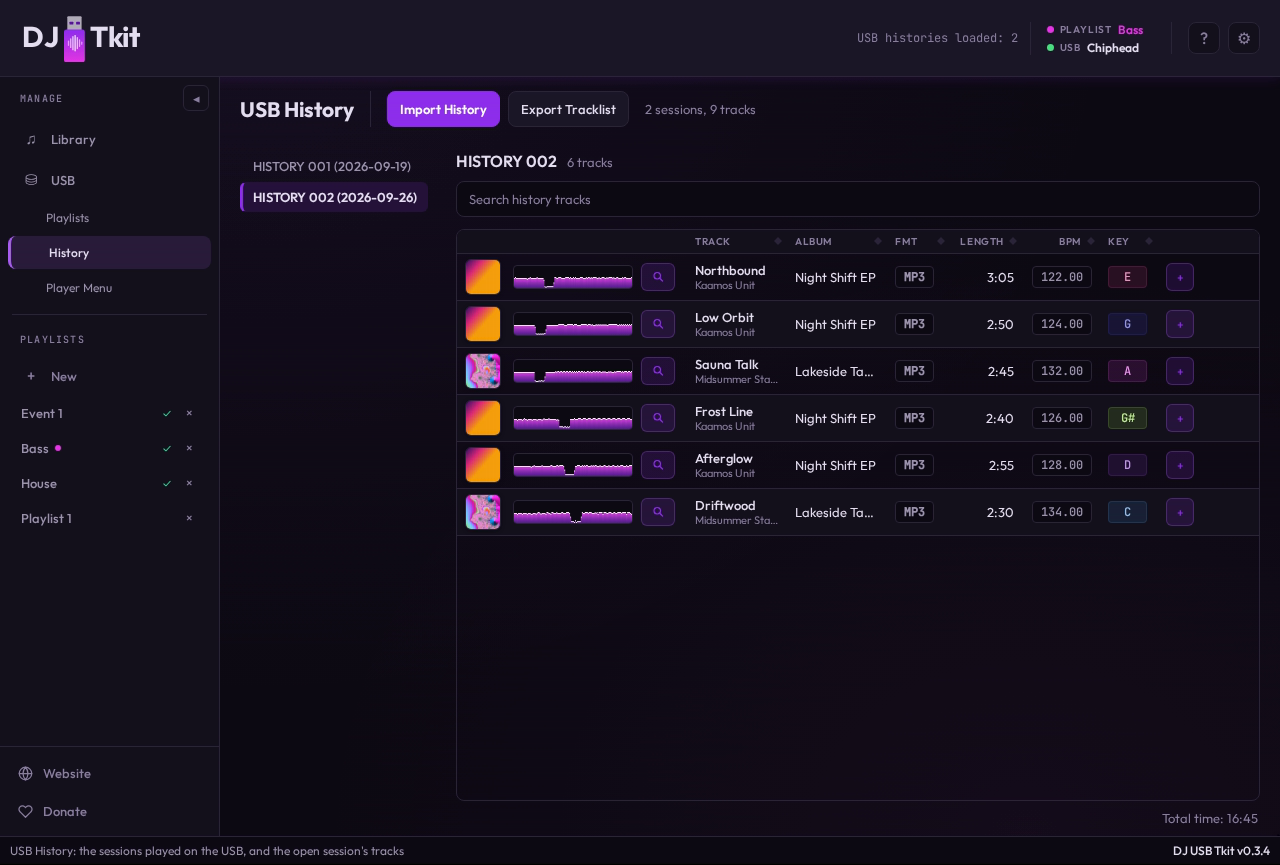
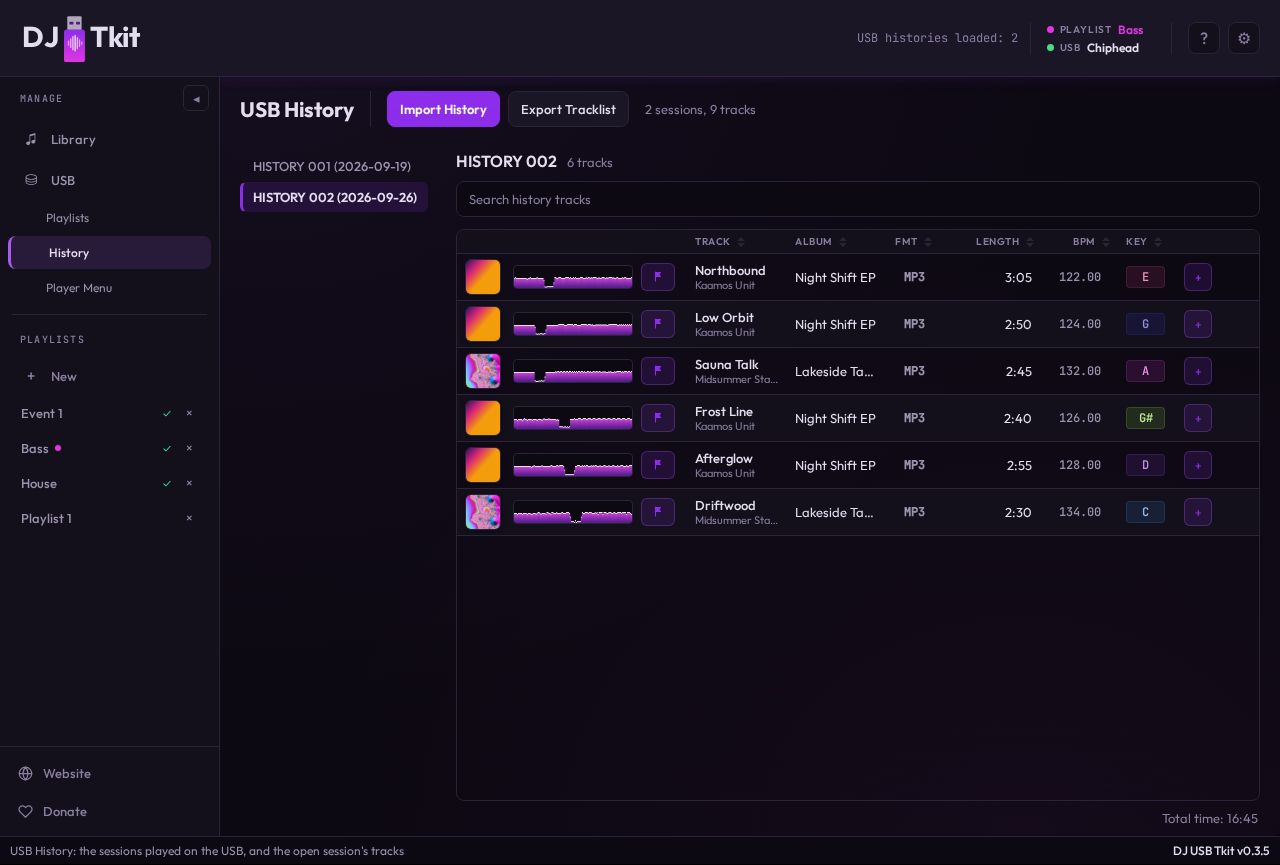
v0.3.5

Changed region(s): [[0.7812, 0.2497, 0.9688, 0.6243], [0.75, 0.2497, 0.7812, 0.2809]]

diff --git a/CHANGELOG.md b/CHANGELOG.md
@@ -39,26 +39,28 @@
 
 ## Unreleased
 
+## 0.3.5
+
 - **New feature:** on Linux, a rekordbox library running under Wine is
   found and can be imported. The app looks in `$WINEPREFIX`, `~/.wine`, and
   Bottles bottles, and maps rekordbox's `C:` / `Z:` track paths to where the
   files are on Linux. The Windows build doesn't work under Wine, so use the
   Linux build for this.
+- **Fix:** AIFF files with padding before the audio can be analyzed and
+  played. They used to fail with "No support for AIFF block-aligned data".
 - **Fix:** a track row now pulses as analyzing for the whole time the
-  track is being analyzed. Before, it only lit up sometimes or a moment 
+  track is being analyzed. Before, it only lit up sometimes or a moment
   at the very end, so during a large analysis some rows never showed it.
+- **Fix:** the cue editor button is disabled for a track that has no
+  waveform, even if it has a BPM and key. Its tooltip says to analyze the
+  track first.
+- **Fix:** in the light theme, the track list's keys are readable. Their
+  text was a pale colour meant for the dark theme.
 - **Fix:** the beat grid in the cue editor looks even. Lines used to be
   drawn between screen pixels, so some looked thicker or fainter than
   others and their spacing seemed to wobble.
 - **Fix:** where a list's two scrollbars meet, the corner is dark now
   instead of a white square.
-- **Fix:** in the light theme, the track list's keys are readable. Their
-  text was a pale colour meant for the dark theme.
-- **Fix:** AIFF files with padding before the audio can be analyzed and
-  played. They used to fail with "No support for AIFF block-aligned data".
-- **Fix:** the cue editor button is disabled for a track that has no
-  waveform, even if it has a BPM and key. Its tooltip says to analyze the
-  track first.
 - **Improvement:** reanalyzing a track clears its BPM and key as soon as
   its analysis starts, so you can see the fresh values come in. A first
   analysis still keeps a BPM or key you edited or imported in view.
@@ -69,9 +71,6 @@
   the BPM box shows two decimals (119.00), as in the track list.
 - **Improvement:** the cue editor's header shows the track's cover art, its
   title, and the artist and album below it, like the track's row in the list.
-- **Improvement:** the track list's sort arrows sit right after each
-  column's name, so they no longer look like they belong to the next column.
-  The column the list is sorted by is shown in the accent colour.
 - **Improvement:** the button next to a track's waveform that opens the cue
   editor shows a cue marker instead of a magnifying glass.
 - **Improvement:** the track list's format and BPM values are plain text,
@@ -80,24 +79,27 @@
   that needs attention keeps its coloured box, which in the dark theme is
   now a soft tint instead of a bright fill, and no longer wraps onto two
   lines.
-- **Chore:** the docs show more of the app for 0.3.4: USB Playlists and History,
-  the Player Menu editor, Health & Diagnostics, the repair preview, Settings,
-  and a playlist export. Their USB views come from the demo library really
-  exported to a USB, and every screenshot and GIF has a caption and the app
-  version below it.
+- **Improvement:** the track list's sort arrows sit right after each
+  column's name, so they no longer look like they belong to the next column.
+  The column the list is sorted by is shown in the accent colour.
 - **Improvement:** on the empty library screen, the rekordbox import button
   says "rekordbox library", like the "Mixxx library" one next to it, instead
   of "RB master.db".
-- **Chore:** backend helpers that read files on this machine (artwork,
-  waveforms, ANLZ, USB setup, source folders) take `Path` instead of text,
-  and a USB database path resolved against the stick is a `PathBuf`.
-  `CONTRIBUTING.md` explains where paths stay text: the API, the database,
-  and rekordbox's own `/Contents/…` and `/PIONEER/…` paths.
 - **Chore:** the rekordbox library's "master DB" names in the code, docs,
   database and settings are now "rekordbox DB", matching the Mixxx ones. The
   environment override is `DJUSBTKIT_REKORDBOX_DB_PATH`; the old
   `DJUSBTKIT_MASTER_DB_PATH` still works. Existing libraries and the
   rekordbox chip's on/off state carry over on the first start.
+- **Chore:** backend helpers that read files on this machine (artwork,
+  waveforms, ANLZ, USB setup, source folders) take `Path` instead of text,
+  and a USB database path resolved against the stick is a `PathBuf`.
+  `CONTRIBUTING.md` explains where paths stay text: the API, the database,
+  and rekordbox's own `/Contents/…` and `/PIONEER/…` paths.
+- **Chore:** the docs show more of the app for 0.3.4: USB Playlists and History,
+  the Player Menu editor, Health & Diagnostics, the repair preview, Settings,
+  and a playlist export. Their USB views come from the demo library really
+  exported to a USB, and every screenshot and GIF has a caption and the app
+  version below it.
 
 ## 0.3.4
 
